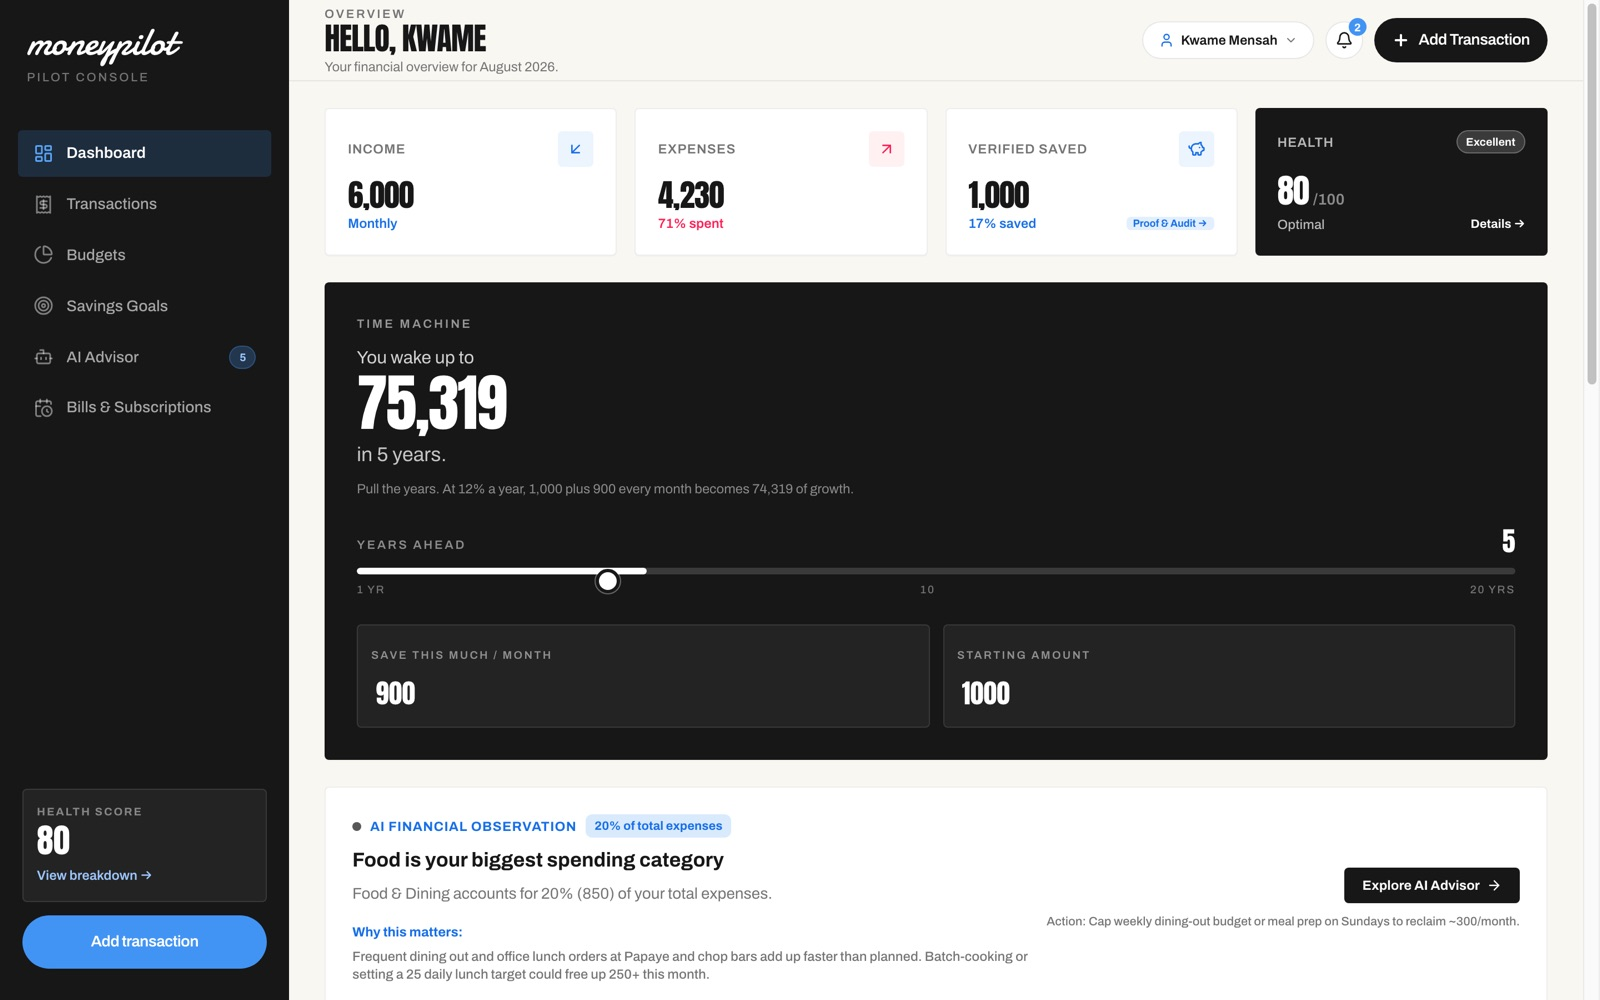
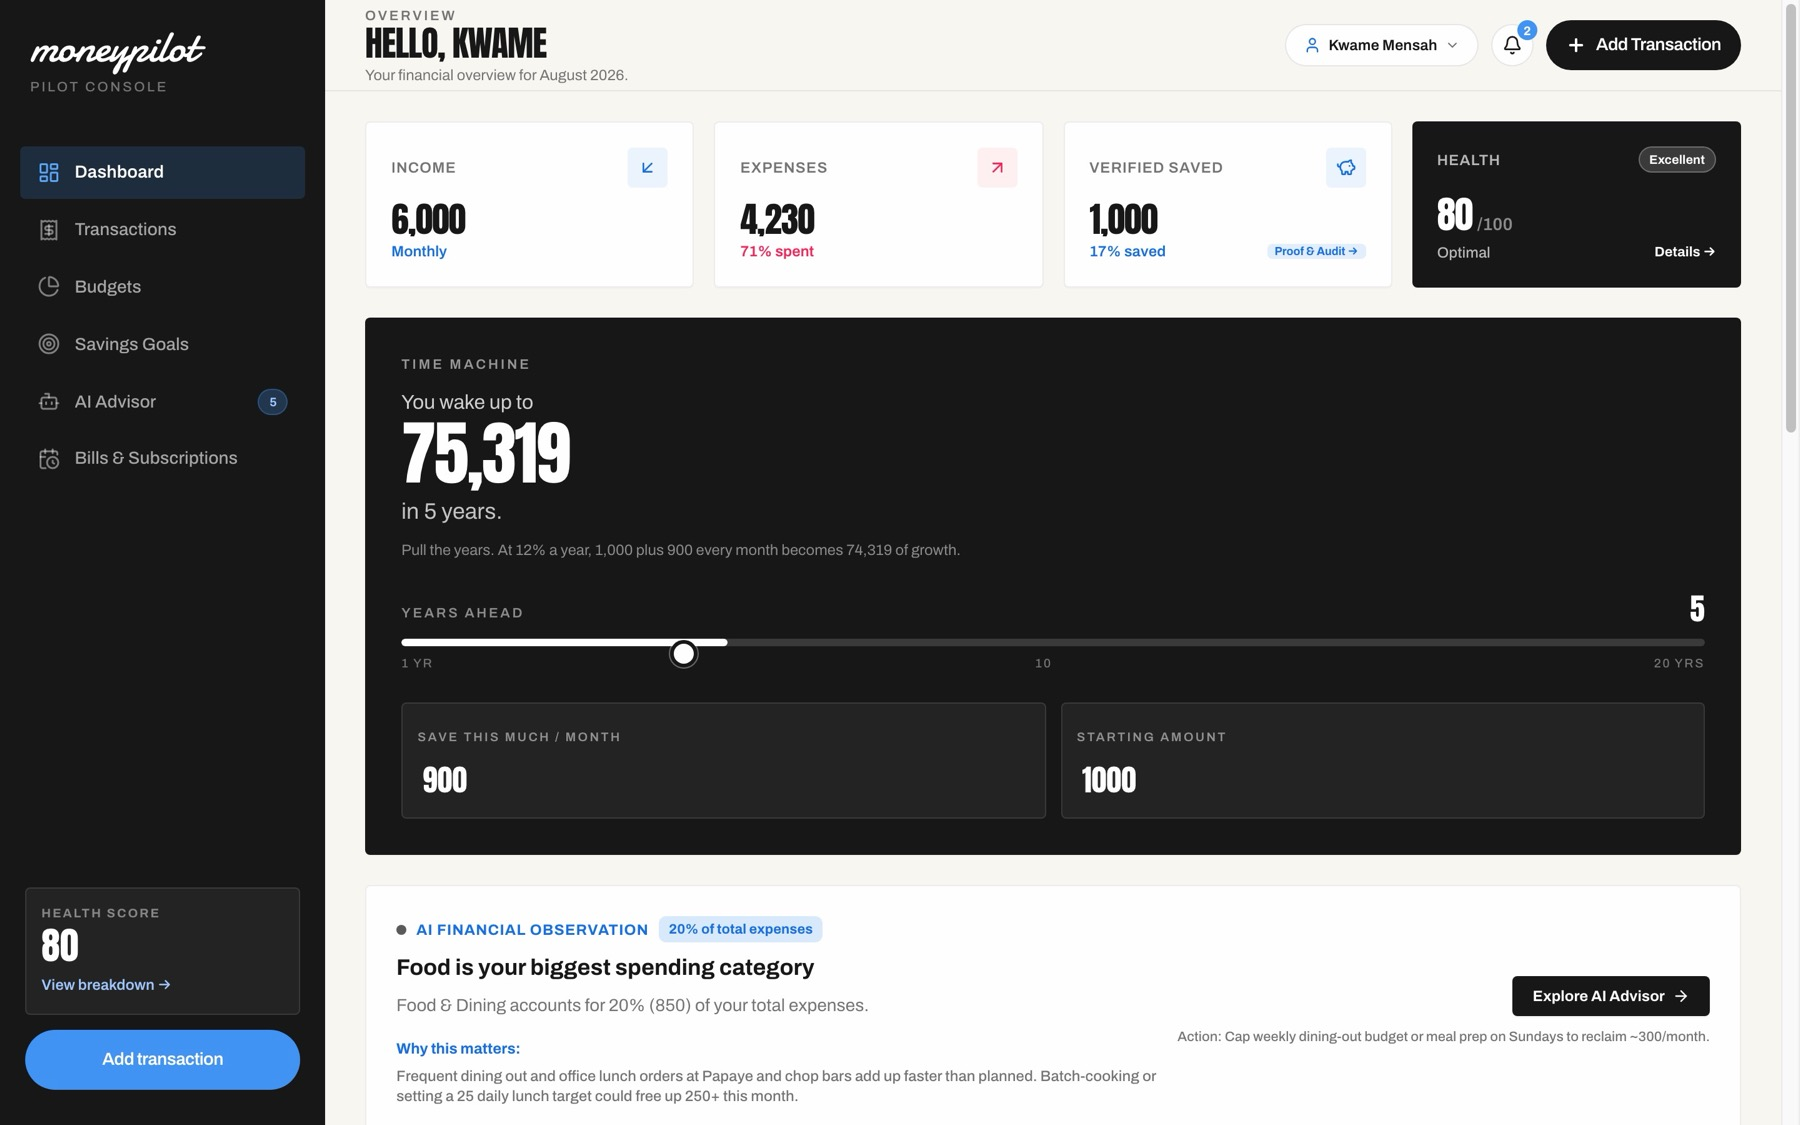
Refresh README copy and app screenshots
Align the intro with current product language and recapture landing and dashboard previews.

Changed region(s): [[0.2188, 0.217, 0.25, 0.248]]

diff --git a/README.md b/README.md
@@ -1,6 +1,6 @@
 # MoneyPilot
 
-AI-powered personal finance for everyday Ghanaians. Track bank and MoMo together, budget with a safe daily pace, save in vaults, and get practical Gemini-backed guidance.
+Smart personal finance for everyday Ghanaians. Track bank and MoMo together, spend with a Safe Daily Pace, save in vaults, and get practical Gemini-backed guidance.
 
 ![MoneyPilot landing page](public/assets/screenshot-landing.jpg)
 
@@ -8,10 +8,10 @@ AI-powered personal finance for everyday Ghanaians. Track bank and MoMo together
 
 ## Features
 
-- Unified bank, MoMo, and cash tracking
-- Safe daily spend, budgets, goals, and debts
-- Savings vaults and recurring bills
-- Gemini AI copilot for affordability and next steps
+- Track bank, MoMo, and cash in one view
+- Safe Daily Pace so you know what you can spend before payday
+- Verified savings vaults with purpose
+- Gemini AI copilot for affordability checks and next steps
 - Editorial landing page with an autoplay product carousel
 
 ## Prerequisites
@@ -79,4 +79,3 @@ Keep every required asset in `public/assets/`. There is no `design/` folder.
 | `MoneyPilot_Product_Architecture_Guide.md` | Product architecture notes |
 
 Reference images as `/assets/<filename>`.
-
